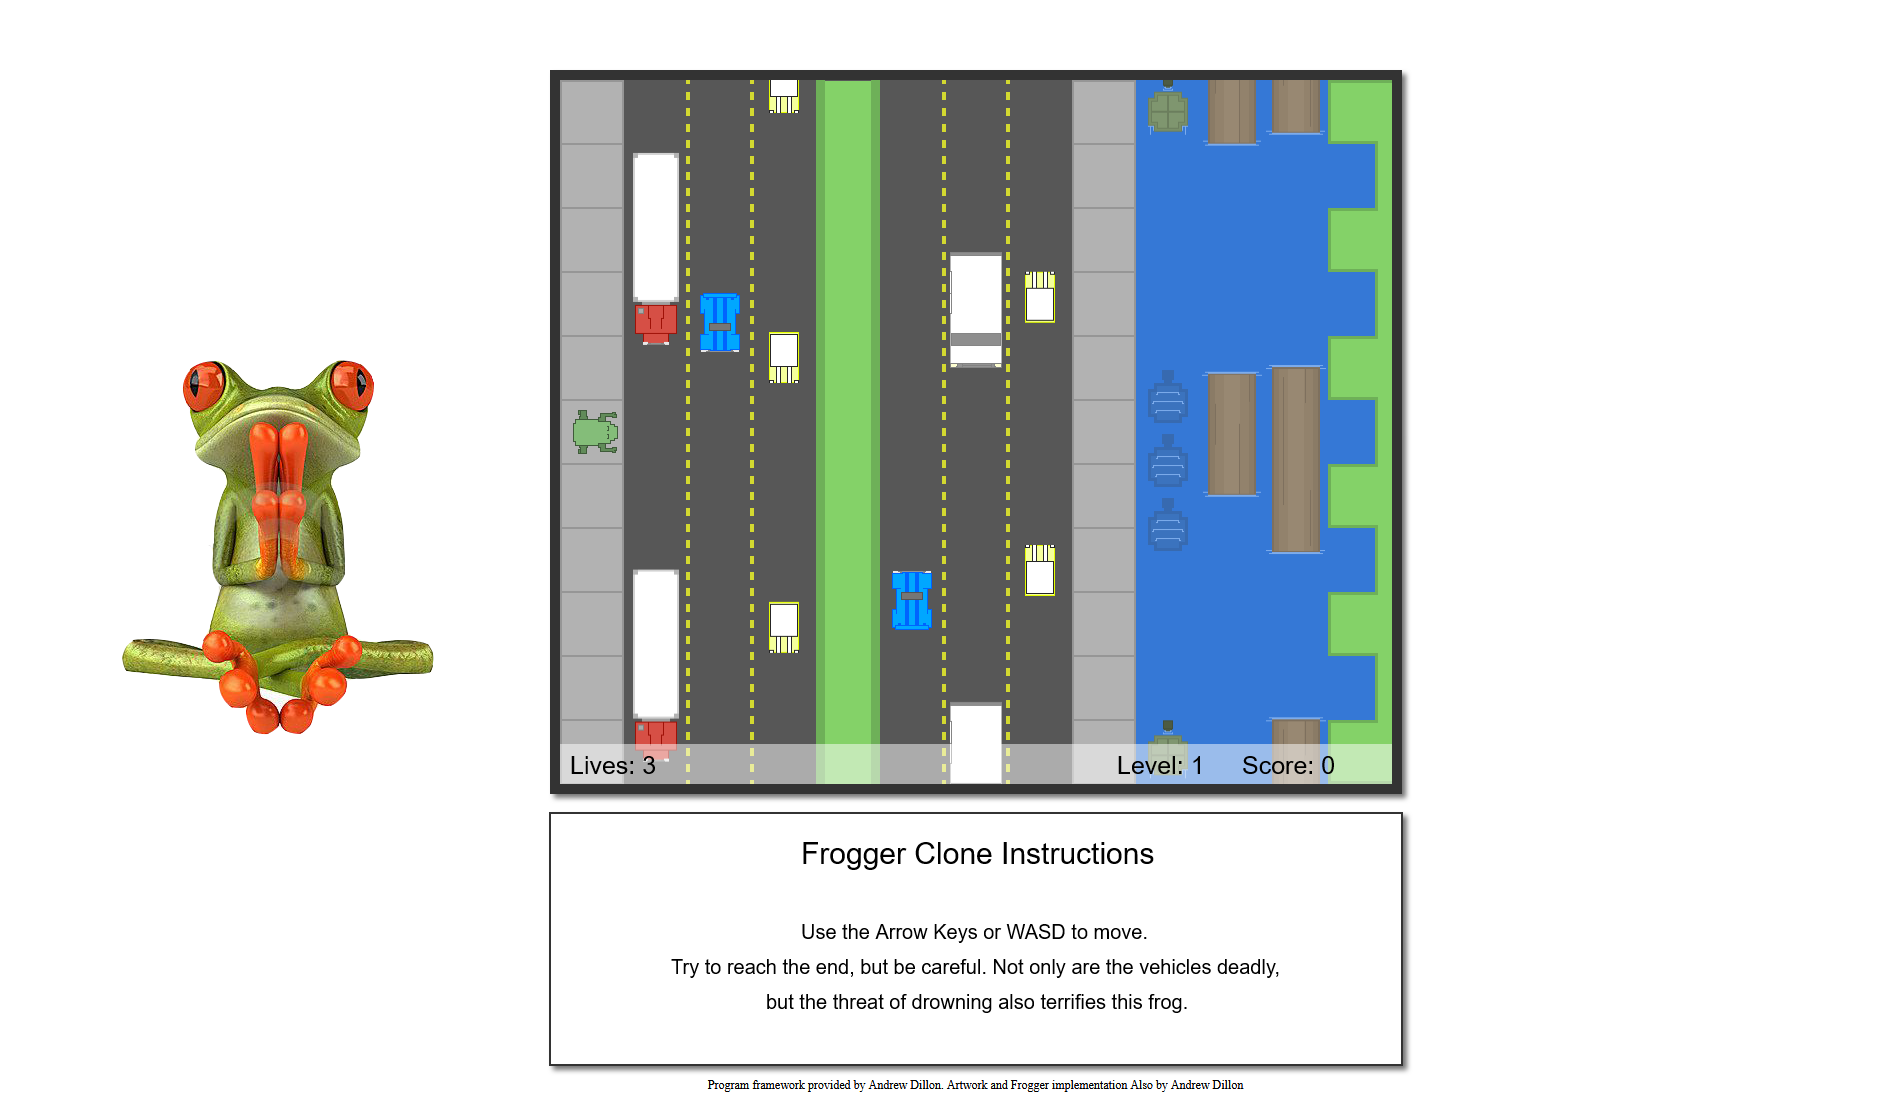
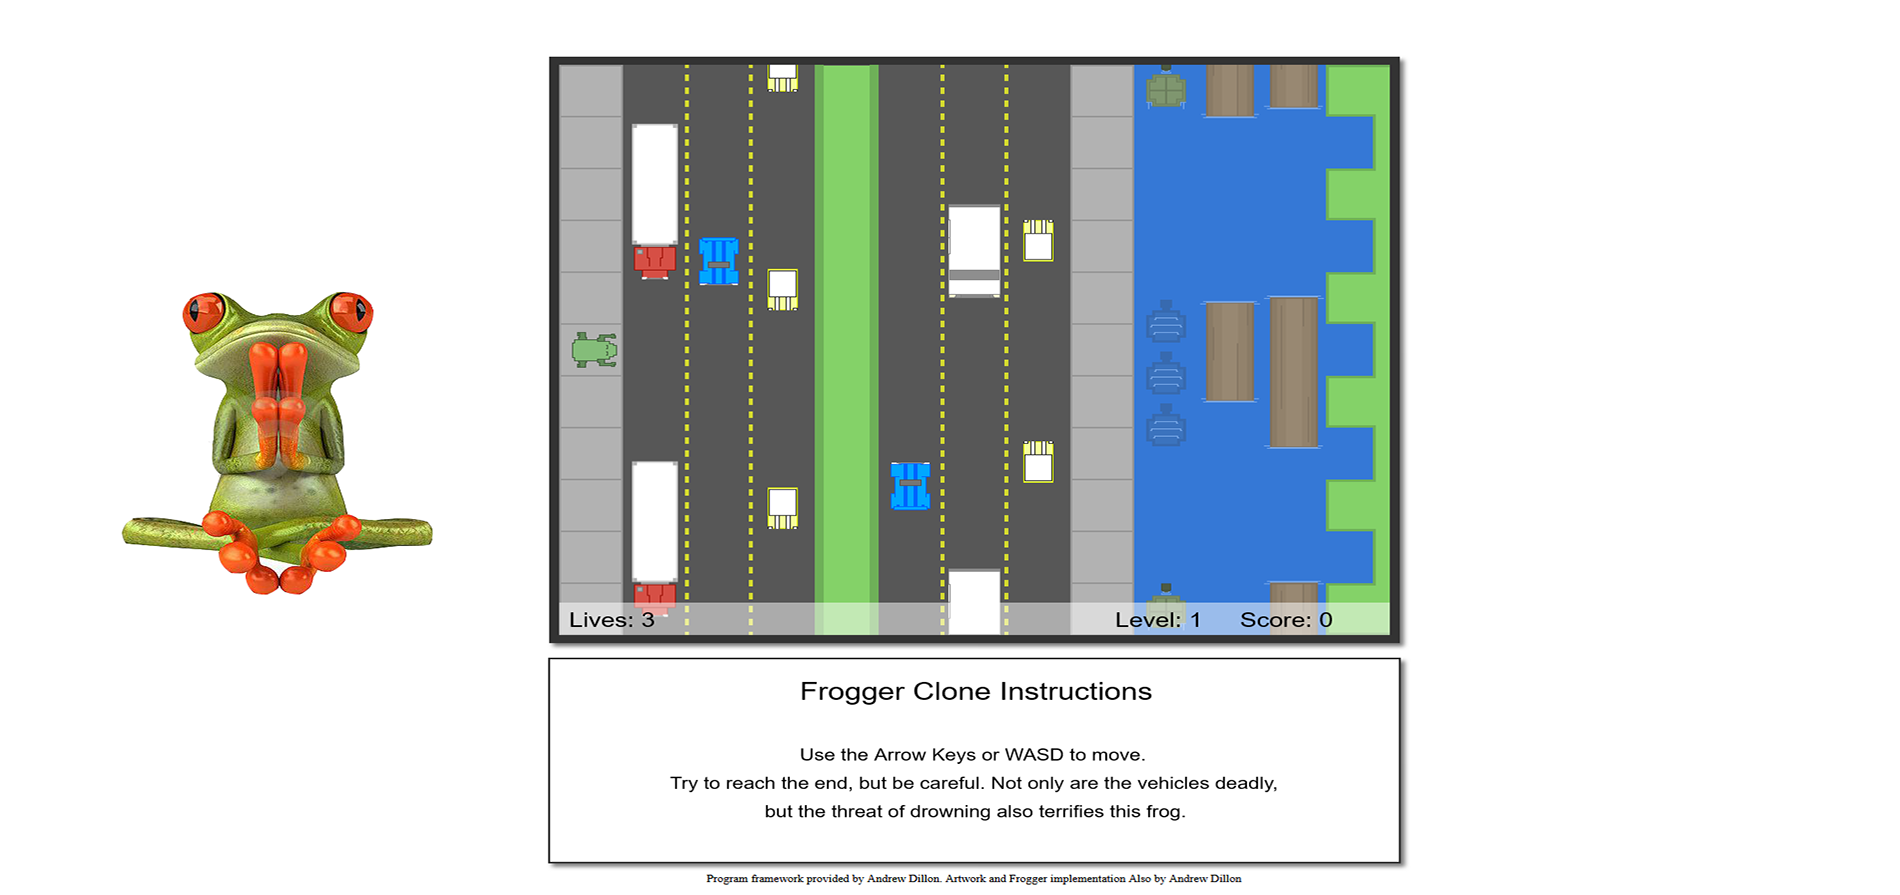
update

Changed region(s): [[0.4037, 0.9654, 0.59, 0.9955], [0.6211, 0.9654, 0.6521, 0.9955], [0.4037, 0.3017, 0.4347, 0.3318]]

diff --git a/project.html b/project.html
@@ -128,64 +128,32 @@
               used UIGradients for a lot of my projects so I wanted to recreate the website in hopes that people would
               use what I have made. This is a React app that depends on nothing except React color picker. </p>
           </div>
-          <div class="section clearfix"></div>
-          <div class="col-md-12" data-scroll-reveal="enter bottom move 30px over 0.5s after 0.2s">
-            <div class="video-section">
-              <figure class="vimeo">
-                <a href="https://player.vimeo.com/video/162863403" class="cursor-link">
-                  <img src="img/portfolio/project/4.jpg" alt="image" />
-                </a>
-              </figure>
-            </div>
-          </div>
+
           <div class="section clearfix padding-top"></div>
           <div class="col-md-4 text-center" data-scroll-reveal="enter bottom move 30px over 0.5s after 0.2s">
             <h5 class="mb-3">React</h5>
             <p class="mb-0 pb-0">Just React with CSS. Did not want to over complicate things all I was looking for was
-              to show amage to ColorsUI. Honestly I think I nailed it.
+              to show homage to ColorsUI. Honestly I think I nailed it.
             </p>
           </div>
           <div class="col-md-4 text-center mt-4 mt-md-0"
             data-scroll-reveal="enter bottom move 30px over 0.5s after 0.2s">
-            <h5 class="mb-3">cinematography</h5>
-            <p class="mb-0 pb-0">Nemo enim ipsam voluptatem quia voluptas sit aspernatur aut odit aut fugit, sed quia.
+            <h5 class="mb-3">CSS</h5>
+            <p class="mb-0 pb-0">CSS is one of my favorites. There is so much you can do with such a simple language.
+              In this case I did not showcase what CSS can do but in further projects you will see the power of CSS.
             </p>
           </div>
           <div class="col-md-4 text-center mt-4 mt-md-0"
             data-scroll-reveal="enter bottom move 30px over 0.5s after 0.2s">
-            <h5 class="mb-3">advertising</h5>
-            <p class="mb-0 pb-0">Nemo enim ipsam voluptatem quia voluptas sit aspernatur aut odit aut fugit, sed quia.
+            <h5 class="mb-3">Design</h5>
+            <p class="mb-0 pb-0">While I have no experience in design I can put together amazing websites. I do
+              have experience in Photoshop and Illustrator which makes me a double threat.
             </p>
-          </div>
-          <div class="section clearfix padding-bottom"></div>
-        </div>
-      </div>
-      <div class="container-fluid">
-        <div class="row justify-content-center">
-          <div class="col-md-12" data-scroll-reveal="enter bottom move 30px over 0.5s after 0.2s">
-            <div class="img-wrap">
-              <img src="img/portfolio/project/3.jpg" alt="">
-            </div>
-          </div>
-        </div>
-      </div>
-      <div class="container">
-        <div class="row justify-content-center">
-          <div class="col-md-8 padding-top-bottom text-center"
-            data-scroll-reveal="enter bottom move 30px over 0.5s after 0.2s">
-            <p class="mb-0 pb-0 lead">Sed ut perspiciatis unde omnis iste natus error sit voluptatem accusantium
-              doloremque laudantium, totam rem aperiam, eaque ipsa quae ab illo inventore veritatis et quasi architecto
-              beatae vitae dicta sunt explicabo. Nemo enim ipsam voluptatem quia voluptas sit aspernatur aut odit aut
-              fugit, sed quia consequuntur magni dolores eos qui ratione voluptatem sequi nesciunt.</p>
-          </div>
-          <div class="col-md-12">
-            <div class="img-wrap" data-scroll-reveal="enter bottom move 30px over 0.5s after 0.2s">
-              <img src="img/portfolio/project/5.jpg" alt="">
-            </div>
           </div>
           <div class="col-md-6 padding-top text-center">
             <a href="project2.html" class="cursor-link animsition-link">
               <div class="project-link-wrap">
+
                 <p>Next</p>
                 <h4>Frogger</h4>
               </div>
@@ -195,27 +163,6 @@
       </div>
     </div>
 
-    <div class="section padding-top-bottom-small background-black">
-      <div class="container-fluid px-5">
-        <div class="row">
-          <div class="col-md-6 footer text-center text-md-left">
-            <p>2020 © <a href="https://themeforest.net/user/ig_design/portfolio" class="cursor-link">Andrew Dillon
-                -</a>
-              All Wrongs <a href="https://themeforest.net/user/ig_design/portfolio" class="cursor-link">Reserved</a></p>
-          </div>
-          <div class="col-md-6 mt-4 mt-md-0 text-center">
-            <div class="social-wrap on-footer">
-              Stalk Me
-              <ul>
-                <li><a href="https://www.linkedin.com/in/pandrewdillon/" class="cursor-link" target="blank">LI</a></li>
-                <li><a href="https://twitter.com/majik895" class="cursor-link" target="blank">TW</a></li>
-                <li><a href="https://github.com/SirAndrewDillon" class="cursor-link" target="blank">GH</a></li>
-              </ul>
-            </div>
-          </div>
-        </div>
-      </div>
-    </div>
 
     <div class="scroll-to-top cursor-link"></div>
 

diff --git a/project2.html b/project2.html
@@ -107,34 +107,37 @@
       <div class="container">
         <div class="row justify-content-center">
           <div class="col-md-6">
-            <a href="img/portfolio/project/6.jpg" class="cursor-link" data-fancybox="gallery">
+            <a href="img/portfolio/project/frogger.gif" class="cursor-link" data-fancybox="gallery">
               <div class="img-wrap">
-                <img src="img/portfolio/project/6.jpg" class="cursor-more" alt="">
+                <img src="img/portfolio/project/frogger.gif" class="cursor-more" alt="">
               </div>
             </a>
           </div>
           <div class="col-md-6 mt-4 mt-md-0">
-            <a href="img/portfolio/project/1.jpg" class="cursor-link" data-fancybox="gallery">
+            <a href="img/portfolio/project/Screenshot-Frogger.png" class="cursor-link" data-fancybox="gallery">
               <div class="img-wrap">
-                <img src="img/portfolio/project/1.jpg" class="cursor-more" alt="">
+                <img src="img/portfolio/project/Screenshot-Frogger.png" class="cursor-more" alt="Frogger Game">
               </div>
             </a>
           </div>
           <div class="section clearfix"></div>
           <div class="col-md-8 padding-top-bottom text-center"
             data-scroll-reveal="enter bottom move 30px over 0.5s after 0.2s">
-            <p class="mb-0 pb-0 lead">Sed ut perspiciatis unde omnis iste natus error sit voluptatem accusantium
-              doloremque laudantium, totam rem aperiam, eaque ipsa quae ab illo inventore veritatis et quasi architecto
-              beatae vitae dicta sunt explicabo. Nemo enim ipsam voluptatem quia voluptas sit aspernatur aut odit aut
-              fugit, sed quia consequuntur magni dolores eos qui ratione voluptatem sequi nesciunt.</p>
+            <p class="mb-0 pb-0 lead">I really liked building this one. I grew up playing Frogger so the fact I was able
+              to build this game is a major feather in my cap. Spent hours at the arcade to get my initials at the top
+              of the board. This game is pure Javascript and I hope to build many more like it.</p>
           </div>
           <div class="section clearfix"></div>
           <div class="col-md-12" data-scroll-reveal="enter bottom move 30px over 0.5s after 0.2s">
             <div class="video-section">
               <figure class="vimeo">
-                <a href="https://player.vimeo.com/video/162863403" class="cursor-link">
-                  <img src="img/portfolio/project/4.jpg" alt="image" />
-                </a>
+
+                <video width="320" height="240" controls>
+                  <source src="https://youtu.be/okm0VtF2gH8" type="video/mp4">
+                  <source src="https://youtu.be/okm0VtF2gH8" type="video/ogg">
+                  Your browser does not support the video tag.
+                </video>
+
               </figure>
             </div>
           </div>

diff --git a/project3.html b/project3.html
@@ -107,16 +107,16 @@
       <div class="container">
         <div class="row justify-content-center">
           <div class="col-md-6">
-            <a href="img/portfolio/project/6.jpg" class="cursor-link" data-fancybox="gallery">
+            <a href="img/portfolio/project/chess.gif" class="cursor-link" data-fancybox="gallery">
               <div class="img-wrap">
-                <img src="img/portfolio/project/6.jpg" class="cursor-more" alt="">
+                <img src="img/portfolio/project/chess.gif" class="cursor-more" alt="">
               </div>
             </a>
           </div>
           <div class="col-md-6 mt-4 mt-md-0">
-            <a href="img/portfolio/project/1.jpg" class="cursor-link" data-fancybox="gallery">
+            <a href="img/portfolio/project/Screenshot-Chess.png class=" cursor-link" data-fancybox="gallery">
               <div class="img-wrap">
-                <img src="img/portfolio/project/1.jpg" class="cursor-more" alt="">
+                <img src="img/portfolio/project/Screenshot-Chess.png" class="cursor-more" alt="">
               </div>
             </a>
           </div>
